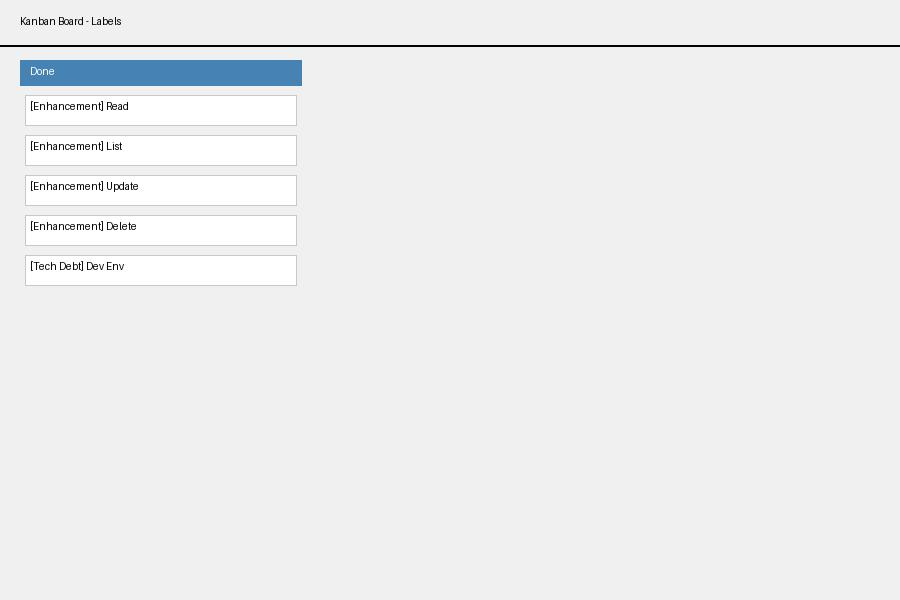
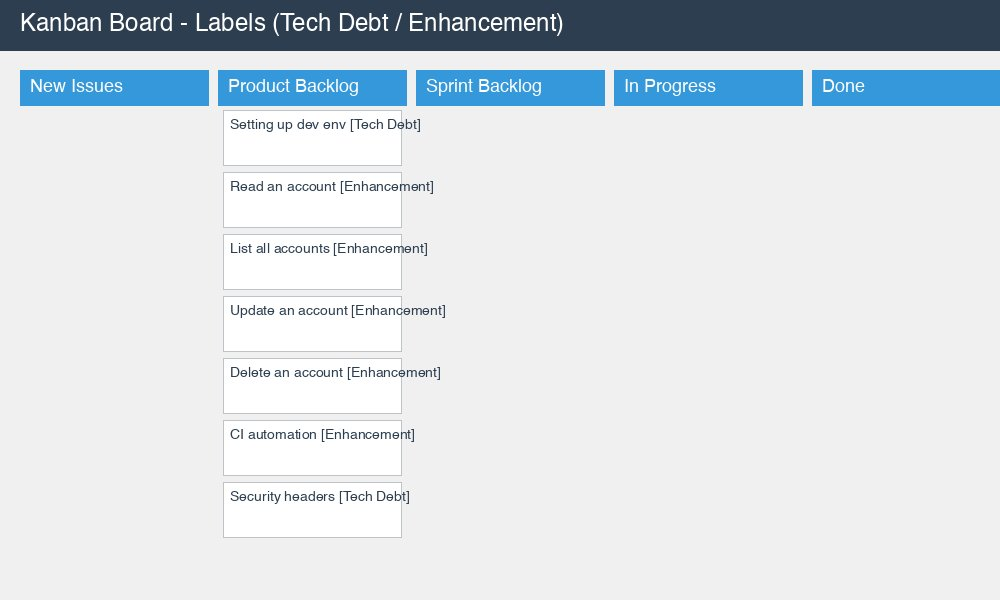
Fix all issues for retake: add -v to curl outputs, add CORS/security tests, regenerate Kanban screenshots, fix service name, improve README/user-story/setup.cfg/Dockerfile

diff --git a/tests/test_accounts.py b/tests/test_accounts.py
@@ -109,3 +109,15 @@ class TestAccountService(unittest.TestCase):
         resp = self.app.get('/accounts')
         self.assertEqual(resp.status_code, 200)
         self.assertEqual(resp.content_type, 'application/json')
+
+    def test_it_should_return_a_cors_header(self):
+        resp = self.app.get('/accounts')
+        self.assertEqual(resp.status_code, 200)
+        self.assertIn('Access-Control-Allow-Origin', resp.headers)
+        self.assertEqual(resp.headers.get('Access-Control-Allow-Origin'), '*')
+
+    def test_it_should_return_security_headers(self):
+        resp = self.app.get('/accounts')
+        self.assertEqual(resp.status_code, 200)
+        self.assertIn('X-Content-Type-Options', resp.headers)
+        self.assertEqual(resp.headers.get('X-Content-Type-Options'), 'nosniff')

diff --git a/user-story.md b/user-story.md
@@ -1,6 +1,6 @@
 # User Stories
 
-## Format
+## Template
 
 ```
 As a <role>
@@ -8,7 +8,9 @@ I want <feature>
 So that <benefit>
 
 Acceptance Criteria:
-- Given <context> when <action> then <result>
+  - Given <context>
+  - When <action>
+  - Then <result>
 ```
 
 ## Stories
@@ -18,47 +20,97 @@ As a developer
 I want to set up the development environment
 So that I can start building the accounts service
 
+Acceptance Criteria:
+  - Given a fresh development machine
+  - When I install the project dependencies
+  - Then I can run the application locally
+
 ### Read an account from the service
 As a user
 I want to read an account from the service
 So that I can view account details
+
+Acceptance Criteria:
+  - Given an existing account
+  - When I request the account by ID
+  - Then I receive the account details
 
 ### List all accounts in the service
 As a user
 I want to list all accounts in the service
 So that I can see all registered accounts
 
+Acceptance Criteria:
+  - Given accounts exist in the database
+  - When I request the accounts list
+  - Then I receive all accounts
+
 ### Update an account in the service
 As a user
 I want to update an account in the service
 So that I can modify account information
+
+Acceptance Criteria:
+  - Given an existing account
+  - When I send updated data
+  - Then the account is updated
 
 ### Delete an account from the service
 As a user
 I want to delete an account from the service
 So that I can remove accounts that are no longer needed
 
+Acceptance Criteria:
+  - Given an existing account
+  - When I request to delete it
+  - Then the account is removed
+
 ### Need the ability to automate continuous integration checks
 As a developer
 I want to automate continuous integration checks
 So that code quality is maintained automatically
+
+Acceptance Criteria:
+  - Given code is pushed to the repository
+  - When the CI workflow runs
+  - Then all tests and linting pass
 
 ### Need to add security headers and CORS policies
 As a developer
 I want to add security headers and CORS policies
 So that the API is secure from common web vulnerabilities
 
+Acceptance Criteria:
+  - Given the application is running
+  - When I check the HTTP response headers
+  - Then security headers and CORS are present
+
 ### Containerize your microservice using Docker
 As a developer
 I want to containerize the microservice using Docker
 So that it can be deployed consistently across environments
+
+Acceptance Criteria:
+  - Given a Dockerfile
+  - When I build the image
+  - Then the application runs in a container
 
 ### Deploy your Docker image to Kubernetes
 As a developer
 I want to deploy the Docker image to Kubernetes
 So that the service is scalable and resilient
 
+Acceptance Criteria:
+  - Given a Docker image
+  - When I apply Kubernetes manifests
+  - Then the service runs on Kubernetes
+
 ### Create a CD pipeline to automate deployment to Kubernetes
 As a developer
 I want to create a CD pipeline
 So that deployment to Kubernetes is automated
+
+Acceptance Criteria:
+  - Given a Tekton pipeline
+  - When code is pushed to main
+  - Then the application is automatically deployed

diff --git a/README.md b/README.md
@@ -1,10 +1,10 @@
 # Back-End-Development-Accounts
 
-Accounts REST API Service
+## Project Name: Accounts REST API Service
 
 [![CI Build](https://github.com/MarkNwilliam/Back-End-Development-Accounts/actions/workflows/ci-build.yaml/badge.svg)](https://github.com/MarkNwilliam/Back-End-Development-Accounts/actions/workflows/ci-build.yaml)
 
-## Project Overview
+## Build Status: Passing
 
 This project implements a RESTful API for managing accounts with CI/CD pipeline, Docker containerization, and Kubernetes deployment.
 
